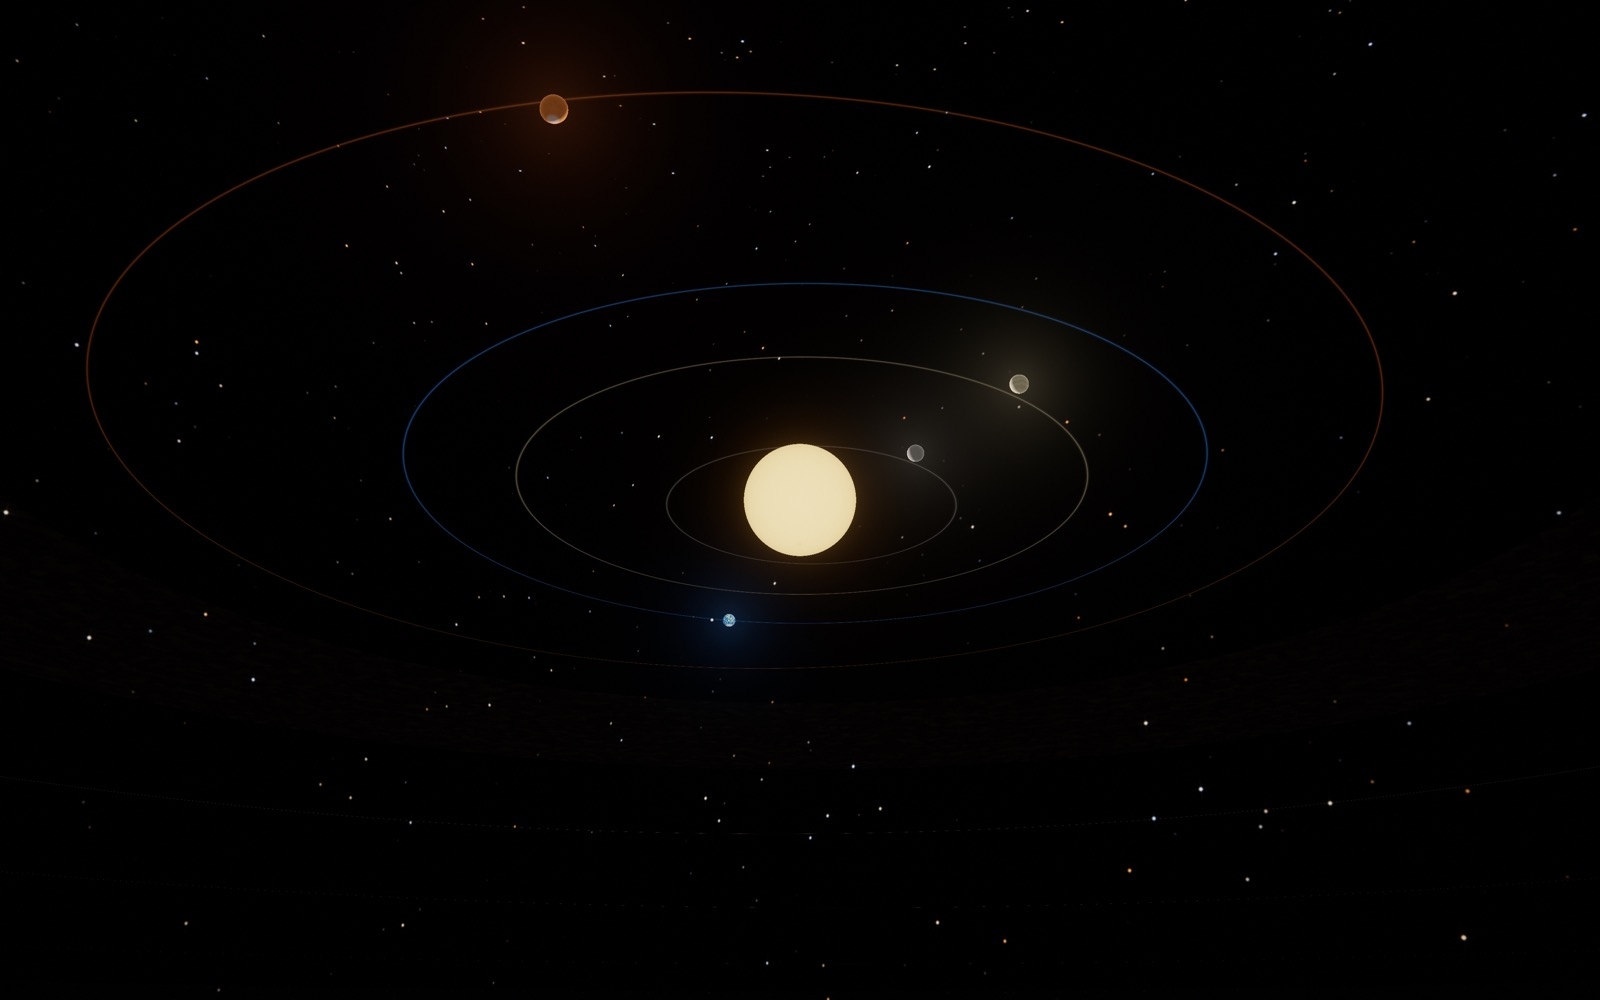
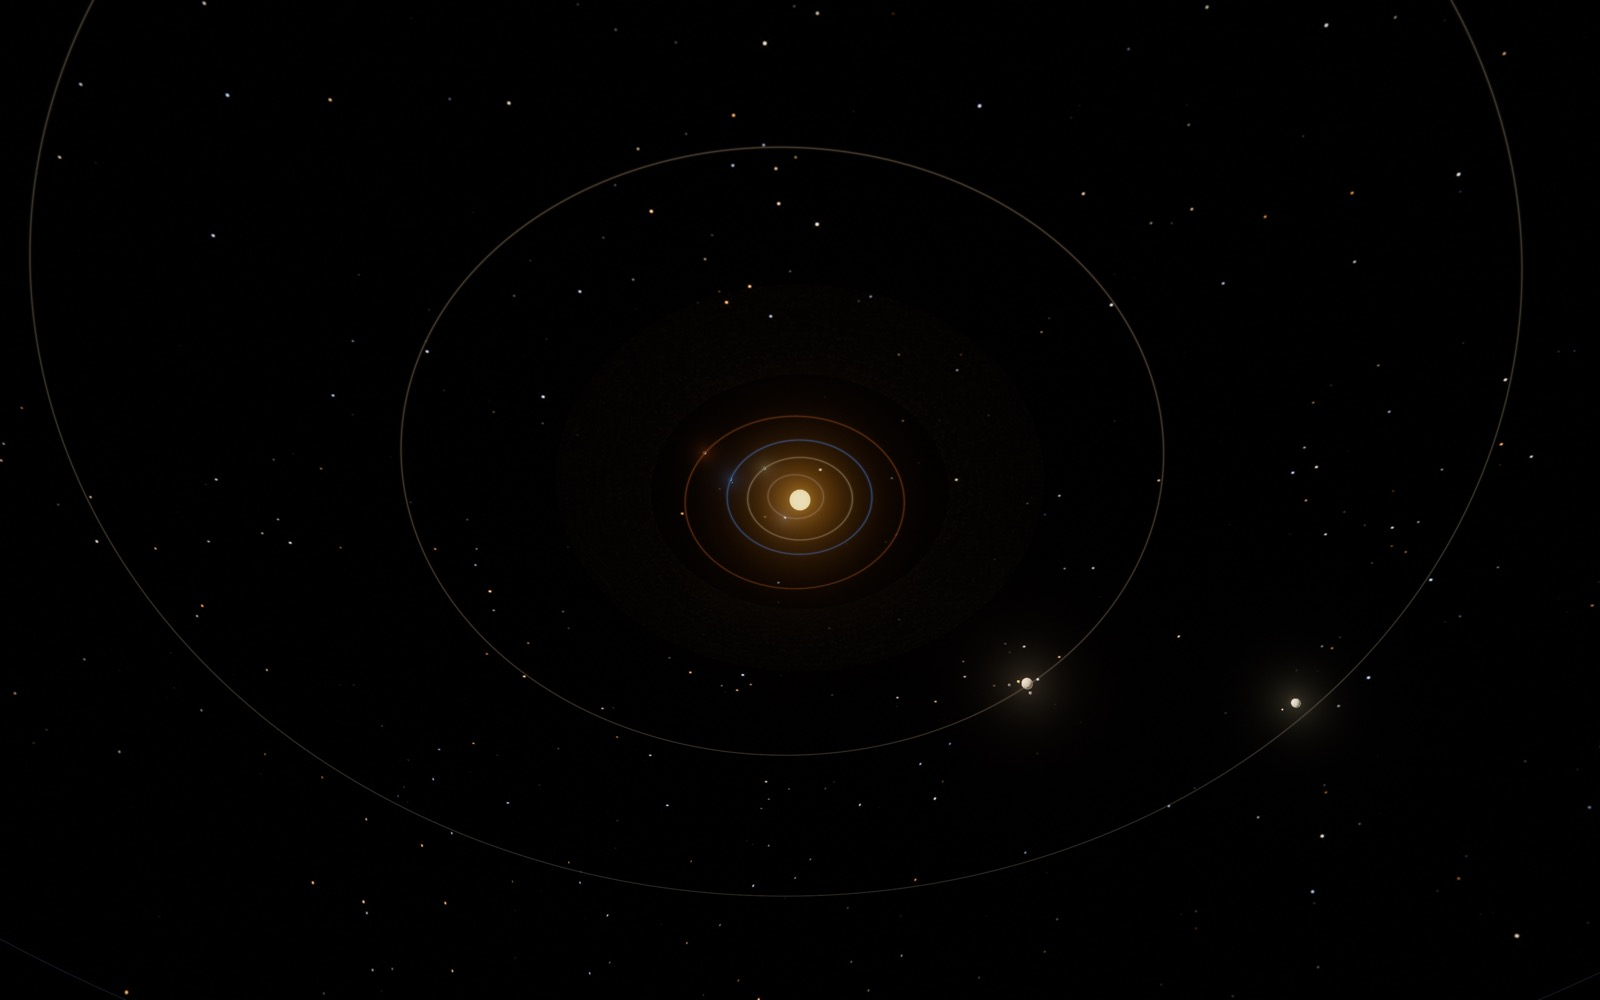
Fix ecliptic handedness: view solar system from the north ecliptic

diff --git a/Sources/SolarSystem.swift b/Sources/SolarSystem.swift
@@ -66,7 +66,7 @@ enum SolarSystem {
         let X = x1 * cos(om) - y1 * sin(om) * cos(inc)
         let Y = x1 * sin(om) + y1 * cos(om) * cos(inc)
         let Z = y1 * sin(inc)
-        return SIMD3(X, Z, Y)
+        return SIMD3(X, Z, -Y)
     }
 
     private static func visualRadius(_ real: Double, scale: Double) -> Float {
@@ -94,7 +94,7 @@ enum SolarSystem {
             let p = heliocentric(el, days: days)
             positions.append(p)
             let orbit = SIMD4<Float>(Float(el.a), Float(el.e),
-                                     Float((el.node + el.peri) * .pi / 180.0),
+                                     Float(-(el.node + el.peri) * .pi / 180.0),
                                      el.orbitAlpha)
             out.append(body(el.type, el.color, pos: p,
                             radius: visualRadius(el.realRadius, scale: scale),
@@ -107,7 +107,7 @@ enum SolarSystem {
         let moonR = max(earthR * 2.7, 0.030 * Float(max(0.5, scale)))
         let moonAngle = 2.0 * .pi * days / 27.322
         out.append(body(8, SIMD3(0.72, 0.70, 0.66),
-                        pos: earth + SIMD3(cos(moonAngle) * Double(moonR), 0, sin(moonAngle) * Double(moonR)),
+                        pos: earth + SIMD3(cos(moonAngle) * Double(moonR), 0, -sin(moonAngle) * Double(moonR)),
                         radius: max(earthR * 0.24, 0.0045 * Float(max(0.5, scale))),
                         orbit: .zero))
 
@@ -124,7 +124,7 @@ enum SolarSystem {
             let ang = 2.0 * .pi * days / m.1 + Double(i) * 1.3
             let rr = Double(jupR * m.0)
             out.append(body(9 + Float(i), m.3,
-                            pos: jupiter + SIMD3(cos(ang) * rr, 0, sin(ang) * rr),
+                            pos: jupiter + SIMD3(cos(ang) * rr, 0, -sin(ang) * rr),
                             radius: max(jupR * m.2, 0.0045 * Float(max(0.5, scale))),
                             orbit: .zero))
         }
@@ -135,7 +135,7 @@ enum SolarSystem {
         let titanAngle = 2.0 * .pi * days / 15.945 + 0.8
         out.append(body(13, SIMD3(0.88, 0.65, 0.38),
                         pos: saturn + SIMD3(cos(titanAngle) * Double(satR * 3.2), 0,
-                                            sin(titanAngle) * Double(satR * 3.2)),
+                                            -sin(titanAngle) * Double(satR * 3.2)),
                         radius: max(satR * 0.20, 0.0045 * Float(max(0.5, scale))),
                         orbit: .zero))
 
@@ -160,6 +160,18 @@ enum SolarSystem {
         let bodies = renderPlanets(days: days, scale: scale)
         let index = min(max(focus - 1, 0), 8)
         return max(0.07, Double(bodies[index].posRadius.w) * 6.2)
+    }
+
+    /// Camera angles that put the observer on the sunward side of the body,
+    /// giving a mostly full-lit disk for the initial close-up.
+    static func focusCameraAngles(_ focus: Int, days: Double) -> (azimuth: Double, elevation: Double) {
+        guard focus > 0 else { return (35, 24) }
+        let p = focusPosition(focus, days: days)
+        let len = max(1e-6, sqrt(p.x * p.x + p.y * p.y + p.z * p.z))
+        let toSun = SIMD3<Double>(-p.x / len, -p.y / len, -p.z / len)
+        let rawEl = asin(max(-0.6, min(0.6, toSun.y))) * 180.0 / .pi
+        return (atan2(toSun.x, toSun.z) * 180.0 / .pi,
+                min(48, max(12, rawEl + 18)))
     }
 
     static func focusName(_ focus: Int) -> String {

diff --git a/Sources/StudioState.swift b/Sources/StudioState.swift
@@ -137,10 +137,10 @@ enum SolarPreset: String, CaseIterable, Identifiable {
     }
     var values: (azimuth: Double, elevation: Double, distance: Double, fov: Double) {
         switch self {
-        case .inner: return (35, 24, 3.2, 44)
-        case .system: return (35, 28, 18, 42)
+        case .inner: return (35, 48, 3.2, 44)
+        case .system: return (35, 52, 18, 42)
         case .topDown: return (35, 78, 24, 40)
-        case .outer: return (35, 30, 38, 42)
+        case .outer: return (35, 52, 38, 42)
         }
     }
 }
@@ -179,7 +179,7 @@ final class StudioState: ObservableObject {
     @Published var bhDoppler: Bool = true
     @Published var bhJets: Bool = false
     @Published var bhSoftness: Double = 3.0
-    @Published var bhThickness: Double = 0.25
+    @Published var bhThickness: Double = 0.1
 
     // Solar system
     @Published var solarPlanetScale: Double = 1.7
@@ -283,7 +283,7 @@ final class StudioState: ObservableObject {
         if ProcessInfo.processInfo.arguments.contains("--solar") {
             mode = .solarSystem
             azimuth = 35
-            elevation = 28
+            elevation = 52
             distance = 18
             fov = 42
             autoRotate = true
@@ -341,7 +341,7 @@ final class StudioState: ObservableObject {
             rotationSpeed = 6
         } else if newMode == .solarSystem {
             azimuth = 35
-            elevation = 28
+            elevation = 52
             distance = 18
             fov = 42
             autoRotate = true
@@ -427,8 +427,16 @@ final class StudioState: ObservableObject {
         distance = SolarSystem.focusDistance(clamped, days: simulationTime,
                                              scale: solarPlanetScale)
         fov = 34
-        elevation = 24
-        azimuth = 35
+        if clamped == 0 {
+            elevation = 24
+            azimuth = 35
+        } else {
+            // Put the camera on the sunward side of the planet so the local
+            // view starts with a mostly full-lit disk (small phase angle).
+            let angles = SolarSystem.focusCameraAngles(clamped, days: simulationTime)
+            azimuth = angles.azimuth
+            elevation = angles.elevation
+        }
         showIntroOverlay = false
     }
 
@@ -436,7 +444,7 @@ final class StudioState: ObservableObject {
         guard mode == .solarSystem else { return }
         solarFocus = -1
         azimuth = 35
-        elevation = 28
+        elevation = 52
         distance = 18
         fov = 42
     }
@@ -510,7 +518,7 @@ final class StudioState: ObservableObject {
         case .solarSystem:
             solarFocus = -1
             azimuth = 35
-            elevation = 28
+            elevation = 52
             distance = 18
             fov = 42
         case .blackHole:

diff --git a/Sources/CLI/main.swift b/Sources/CLI/main.swift
@@ -23,7 +23,7 @@ var settings = RenderSettings()
 if args.contains("--solar") {
     settings.mode = .solarSystem
     settings.azimuth = 35
-    settings.elevation = 28
+    settings.elevation = 52
     settings.distance = 18
     settings.fov = 42
     settings.starLayerEnabled = false
@@ -47,6 +47,11 @@ if settings.mode == .solarSystem && settings.solarFocus >= 0 && !args.contains("
 }
 settings.fov = doubleValue("--fov", settings.fov)
 settings.time = doubleValue("--time", 0)
+if settings.mode == .solarSystem && settings.solarFocus >= 0 {
+    let a = SolarSystem.focusCameraAngles(settings.solarFocus, days: settings.time)
+    if !args.contains("--az") { settings.azimuth = a.azimuth }
+    if !args.contains("--el") { settings.elevation = a.elevation }
+}
 settings.dust = doubleValue("--dust", 1.0)
 settings.exposure = doubleValue("--exposure", 0.0)
 settings.bloom = doubleValue("--bloom", settings.bloom)
@@ -68,7 +73,7 @@ if args.contains("--blackhole") {
     settings.bhDoppler = !args.contains("--no-doppler")
     settings.bhJets = args.contains("--jets")
     settings.bhSoftness = doubleValue("--bh-soft", 1.6)
-    settings.bhThickness = doubleValue("--bh-thickness", 0.25)
+    settings.bhThickness = doubleValue("--bh-thickness", 0.1)
 }
 
 do {

diff --git a/Sources/ContentView.swift b/Sources/ContentView.swift
@@ -536,7 +536,7 @@ struct SidebarView: View {
                               format: { String(format: "%.0f Rs", $0) })
                 LabeledSlider(title: "盘厚度",
                               value: $state.bhThickness,
-                              range: 0.1...1.5,
+                              range: 0.05...1.5,
                               format: { String(format: "%.2f×", $0) })
                 LabeledSlider(title: "曝光",
                               value: $state.bhExposure,
@@ -924,6 +924,7 @@ struct SolarLabelsOverlay: View {
 
         var projected: [Projected] = []
         for i in 0..<min(9, bodies.count) {
+            if state.solarFocus > 0 && i != state.solarFocus - 1 { continue }
             let p = bodies[i].posRadius
             if let item = project(SIMD4<Float>(p.x, p.y, p.z, p.w), index: i) {
                 projected.append(item)

diff --git a/Sources/GalaxyEngine.swift b/Sources/GalaxyEngine.swift
@@ -472,7 +472,7 @@ final class GalaxyEngine {
                                    tan(settings.fov * .pi / 360.0) /
                                    Double(max(height, 1)))
             u.params4 = SIMD4<Float>(Float(max(0.0012, settings.distance * 0.00045)),
-                                     1.0, auPerPixel, 0)
+                                     1.0, auPerPixel, Float(settings.solarFocus))
         } else {
             u.params3 = SIMD4<Float>(Float(settings.bhTemp),
                                      Float(settings.bhBrightness),

diff --git a/Sources/ShaderTypes.swift b/Sources/ShaderTypes.swift
@@ -97,7 +97,7 @@ struct RenderSettings: Equatable {
     var bhDoppler: Bool = true
     var bhJets: Bool = false
     var bhSoftness: Double = 1.6
-    var bhThickness: Double = 0.25
+    var bhThickness: Double = 0.1
 
     // Solar system
     var solarPlanetScale: Double = 1.0

diff --git a/README.md b/README.md
@@ -85,7 +85,7 @@
 3. **引力透镜的二次像**：近侧视时，盘背面的光被弯到阴影下方，形成第二条“厚带”；
 4. **柔焦 PSF**：3 px 的软焦会把盘缘和光子环一起抹开。
 
-所以看到的大部分“厚度”是日冕、二次像和柔焦，而不是盘本身。侧栏的 **盘厚度** 滑杆（默认 `0.25×`）单独控制第 1–2 层；想更薄可以拉到 `0.25–0.35`，但边缘会重新变锐。若想保留柔边又不要厚带，把 **柔焦** 保持在 2–3，盘厚度降到 0.25 左右。
+所以看到的大部分“厚度”是日冕、二次像和柔焦，而不是盘本身。侧栏的 **盘厚度** 滑杆（默认 `0.10×`）单独控制第 1–2 层；想更薄可以拉到 `0.25–0.35`，但边缘会重新变锐。若想保留柔边又不要厚带，把 **柔焦** 保持在 2–3，盘厚度降到 0.10 左右。
 
 ### 视觉参考与差异
 
@@ -118,6 +118,7 @@
 - 使用 J2000 历元的 8 颗行星轨道根数：`a, e, i, Ω, ω, M0, period`；
 - 每帧解 Kepler 方程 `E - e sin E = M`，再转到日心黄道坐标；
 - 位置单位是 **AU**，时间单位是 **天**；默认 60 天/秒，水星/金星会明显快于外行星；
+- 默认从**黄道北侧**俯视（仰角 52°），行星按从北黄极看去的**逆时针**方向公转；
 - 行星的初始相位和周期是真实值，但这是**二体开普勒模型**，不包含行星之间的相互引力。
 
 ### 画面内容
@@ -137,6 +138,7 @@
 
 - `内行星`、`全景`、`俯视`、`外行星` 四个相机预设；
 - **点击任意行星或太阳附近即聚焦到该天体**，相机目标跟随其公转；
+- 聚焦行星时默认从**太阳照亮的一侧**观察，避免一上来就是半边阴影；
 - 聚焦后按 `ESC`、双击画面或点顶部“返回全景”回到整个太阳系；
 - 速度 1–365 天/秒；
 - 行星尺寸、轨道线、小行星带、主要卫星、曝光、泛光均可调；
